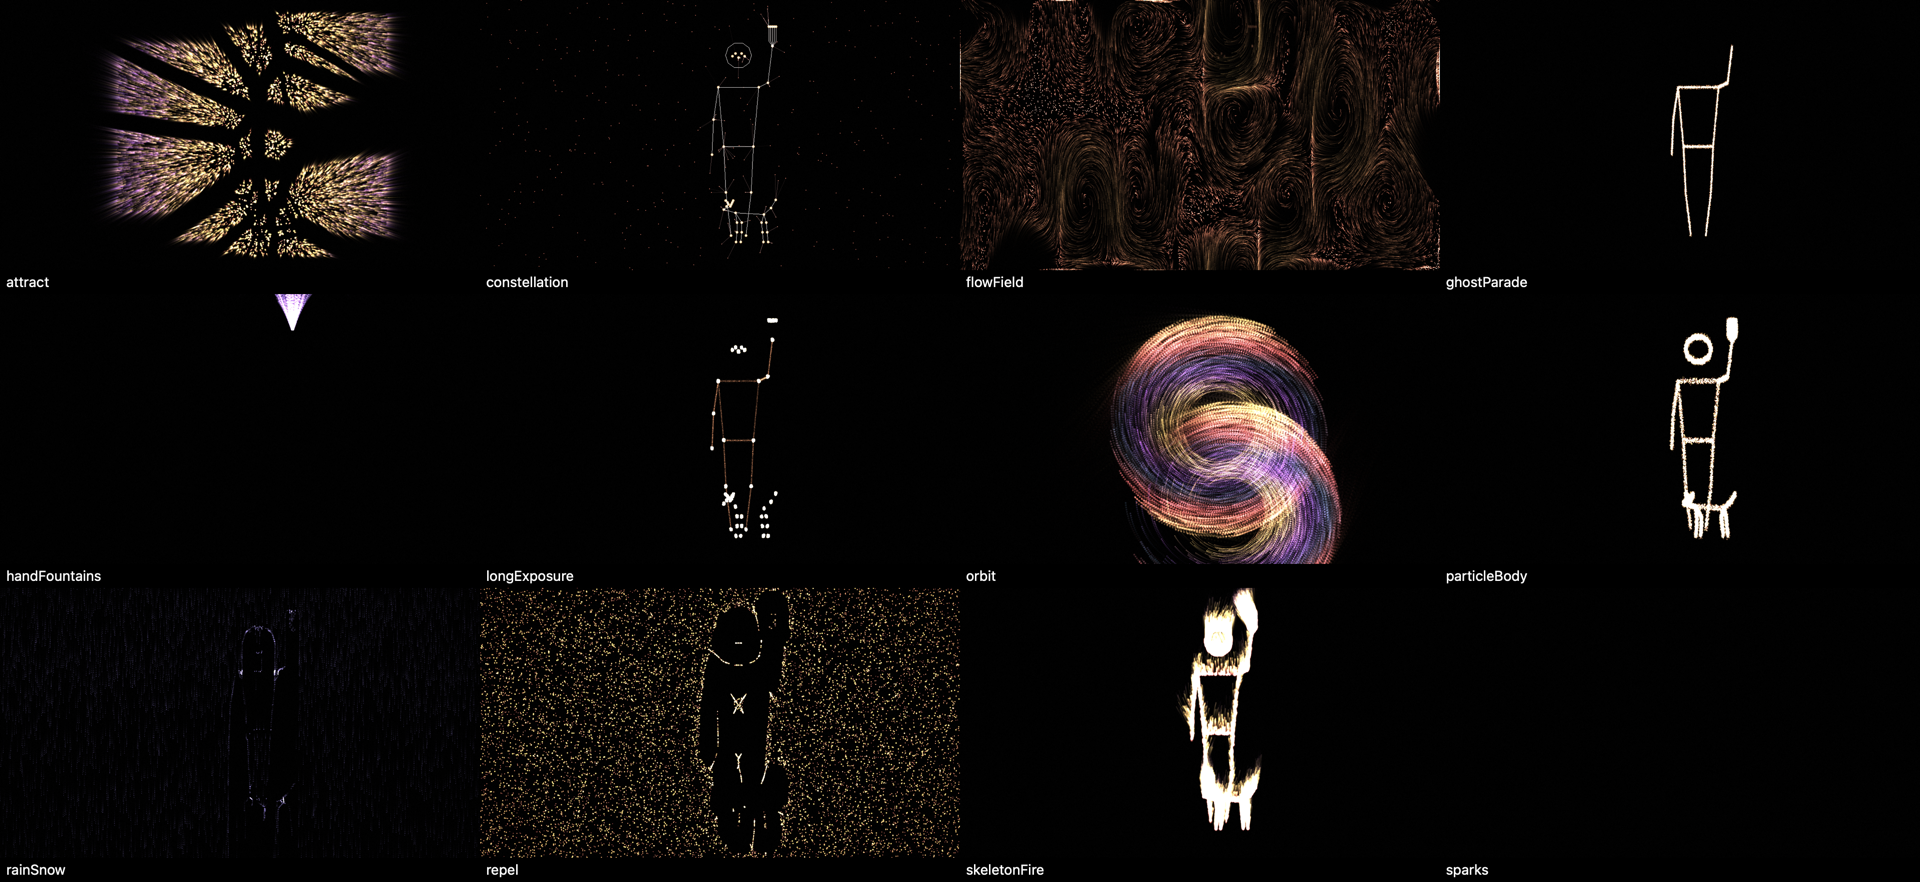
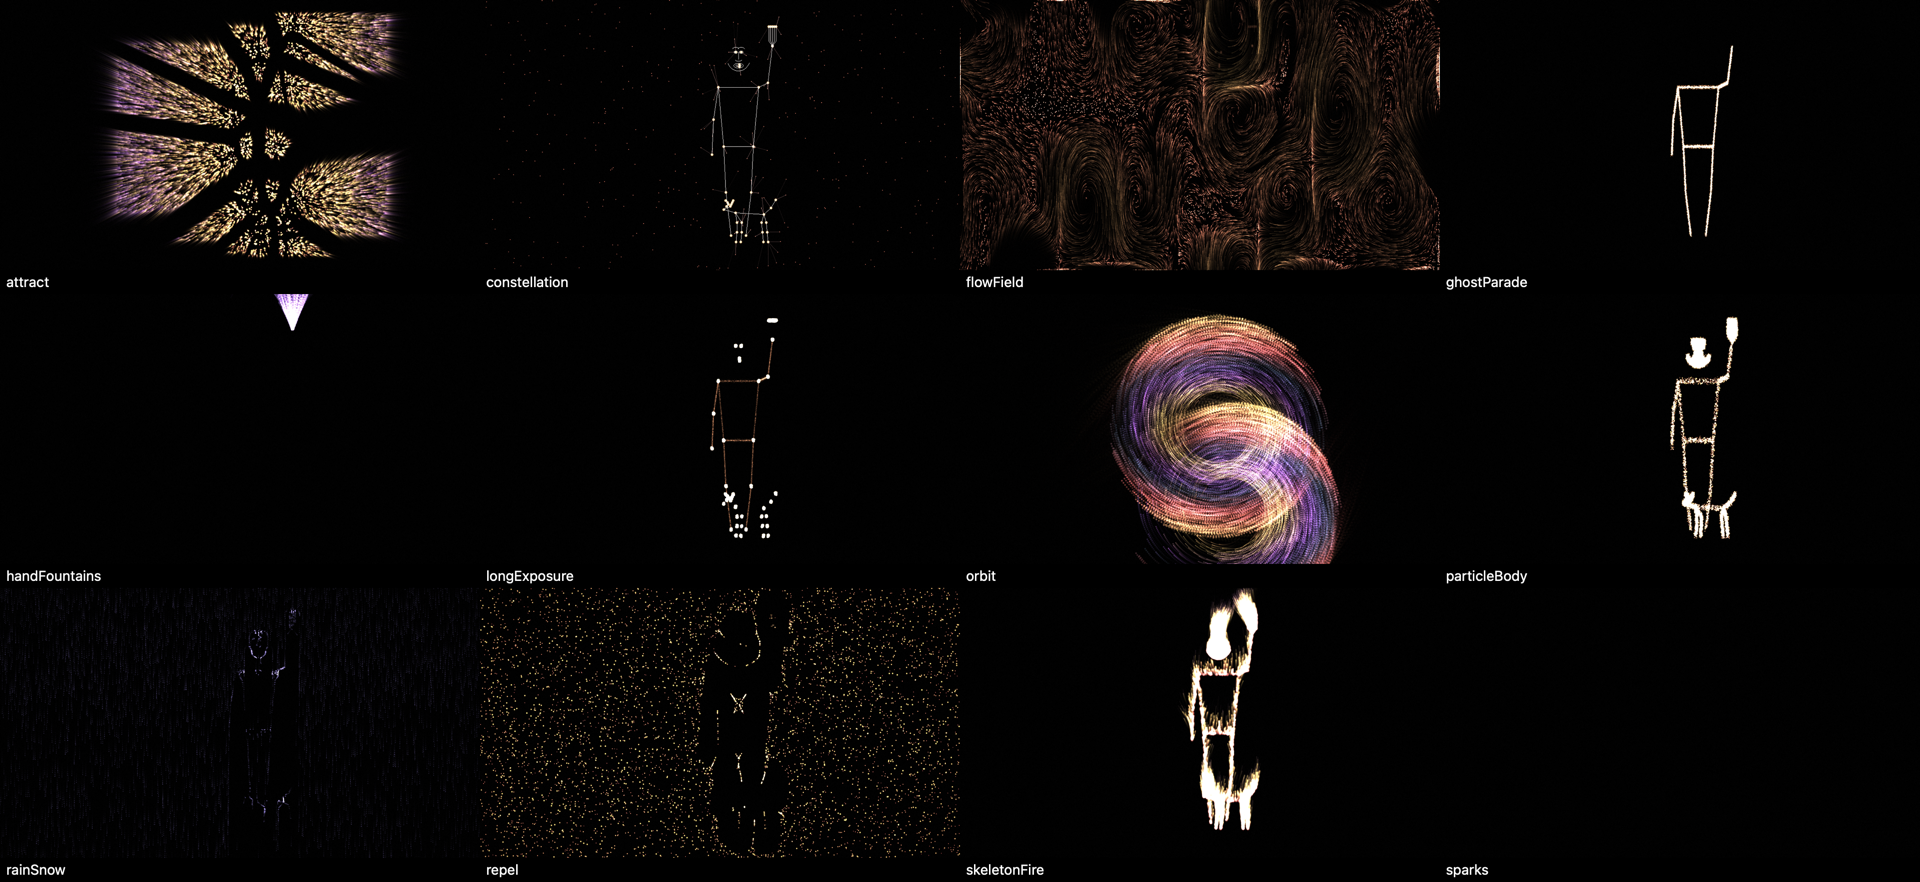
Particles and Text: heads from face landmarks or a circle, like Colours
ScenePerson.headOutlines(aspect:) and headAnchors put the head rule in
one place: the face's landmark features (eyes, brows, nose, lips, jaw)
when Face Landmarks is arriving for that person, otherwise a circle from
the ears, eyes or shoulders. Particles emit fire and dust along those
features, letters and rain bounce off them, and attraction targets the
pupils and mouth rather than the raw eye and ear joints. Hands were
already bones and anchors in both apps.

diff --git a/Particles/ParticleSystem.swift b/Particles/ParticleSystem.swift
@@ -30,27 +30,23 @@ struct SceneGeometry {
         let bodyEdges: [(Int, Int)] = [(5, 6), (5, 7), (7, 9), (6, 8), (8, 10), (5, 11), (6, 12), (11, 12), (11, 13), (13, 15), (12, 14), (14, 16)]
         for person in scene.persons where person.confidence > 0 {
             centroids.append(person.centroid)
-            for (j, joint) in person.joints.enumerated() where person.visible[j] {
+            for (j, joint) in person.joints.enumerated() where person.visible[j] && j >= 5 {
                 anchors.append(joint)
                 anchorVelocities.append(person.velocities[j])
                 if simd_length(person.velocities[j]) > speedThreshold {
                     fastJoints.append((joint, person.velocities[j]))
                 }
             }
+            for anchor in person.headAnchors {
+                anchors.append(anchor)
+                anchorVelocities.append(person.visible[0] ? person.velocities[0] : .zero)
+            }
             for (a, b) in bodyEdges where person.visible[a] && person.visible[b] {
                 bones.append((person.joints[a], person.joints[b]))
             }
-            // The head as a ring of short bones.
-            let headJoints = (0..<5).filter { person.visible[$0] }.map { person.joints[$0] }
-            if !headJoints.isEmpty {
-                let centre = headJoints.reduce(.zero, +) / Float(headJoints.count)
-                let radius: Float = person.visible[3] && person.visible[4] ? simd_distance(person.joints[3], person.joints[4]) * 0.6 : 0.03
-                let n = 10
-                for i in 0..<n {
-                    let a0 = Float(i) / Float(n) * 2 * .pi, a1 = Float(i + 1) / Float(n) * 2 * .pi
-                    let aspect = max(scene.frameAspect, 0.1)
-                    bones.append((centre + SIMD2(cosf(a0) * radius / aspect, sinf(a0) * radius), centre + SIMD2(cosf(a1) * radius / aspect, sinf(a1) * radius)))
-                }
+            // The head: landmark features when they arrive, else a circle.
+            for outline in person.headOutlines(aspect: scene.frameAspect) where outline.count >= 2 {
+                for i in 1..<outline.count { bones.append((outline[i - 1], outline[i])) }
             }
         }
         let animalEdges: [(Int, Int)] = [(0, 1), (0, 2), (1, 5), (5, 4), (4, 3), (2, 8), (8, 7), (7, 6), (0, 9), (9, 10), (10, 11), (11, 12), (9, 13), (13, 14), (14, 15), (9, 22), (22, 16), (16, 17), (17, 18), (22, 19), (19, 20), (20, 21), (22, 23), (23, 24)]

diff --git a/ReceiverCore/Scene/TrackingScene.swift b/ReceiverCore/Scene/TrackingScene.swift
@@ -110,3 +110,42 @@ struct TrackingScene: Sendable {
 
     static let empty = TrackingScene()
 }
+
+extension ScenePerson {
+    /// The head as polylines: the face's landmark features (eyes, brows,
+    /// nose, lips, jaw) when Face Landmarks is arriving for this person,
+    /// otherwise a circle sized from the ears, eyes or shoulders. The same
+    /// rule the shader modes use, for simulations that need bones to react to.
+    func headOutlines(aspect: Float) -> [[ScenePoint]] {
+        if let face, face.landmarks.count >= 76 {
+            return FaceLandmarks.regions.map { region in
+                var points = Array(face.landmarks[region.range])
+                if region.isClosed, let first = points.first { points.append(first) }
+                return points
+            }
+        }
+        let headJoints = (0..<5).filter { visible[$0] }.map { joints[$0] }
+        guard !headJoints.isEmpty else { return [] }
+        let centre = headJoints.reduce(.zero, +) / Float(headJoints.count)
+        var radius: Float = 0.03
+        if visible[3], visible[4] { radius = simd_distance(joints[3], joints[4]) * 0.6 }
+        else if visible[1], visible[2] { radius = simd_distance(joints[1], joints[2]) * 1.3 }
+        else if visible[5], visible[6] { radius = simd_distance(joints[5], joints[6]) * 0.28 }
+        let a = max(aspect, 0.1)
+        let n = 12
+        return [(0...n).map { i in
+            let angle = Float(i) / Float(n) * 2 * .pi
+            return centre + ScenePoint(cosf(angle) * radius / a, sinf(angle) * radius)
+        }]
+    }
+
+    /// Points on the head worth attracting to: pupils and the mouth when
+    /// landmarks are present, otherwise the nose.
+    var headAnchors: [ScenePoint] {
+        if let face, face.landmarks.count >= 76 {
+            return [face.landmarks[FaceLandmarks.leftPupil], face.landmarks[FaceLandmarks.rightPupil],
+                    face.landmarks[FaceLandmarks.innerLipTop], face.landmarks[FaceLandmarks.innerLipBottom]]
+        }
+        return visible[0] ? [joints[0]] : []
+    }
+}

diff --git a/Text/LetterSystem.swift b/Text/LetterSystem.swift
@@ -426,11 +426,16 @@ struct SceneGeometryLite {
     init(scene: TrackingScene) {
         let bodyEdges: [(Int, Int)] = [(5, 6), (5, 7), (7, 9), (6, 8), (8, 10), (5, 11), (6, 12), (11, 12), (11, 13), (13, 15), (12, 14), (14, 16)]
         for person in scene.persons where person.confidence > 0 {
-            for (j, joint) in person.joints.enumerated() where person.visible[j] {
+            for (j, joint) in person.joints.enumerated() where person.visible[j] && j >= 5 {
                 anchors.append(joint)
                 if simd_length(person.velocities[j]) > 0.6 { fastJoints.append((joint, person.velocities[j])) }
             }
+            anchors += person.headAnchors
             for (a, b) in bodyEdges where person.visible[a] && person.visible[b] { bones.append((person.joints[a], person.joints[b])) }
+            // The head: landmark features when they arrive, else a circle.
+            for outline in person.headOutlines(aspect: scene.frameAspect) where outline.count >= 2 {
+                for i in 1..<outline.count { bones.append((outline[i - 1], outline[i])) }
+            }
         }
         let animalEdges: [(Int, Int)] = [(0, 9), (9, 10), (10, 11), (11, 12), (9, 13), (13, 14), (14, 15), (9, 22), (22, 16), (16, 17), (17, 18), (22, 19), (19, 20), (20, 21), (22, 23), (23, 24)]
         for animal in scene.animals where animal.confidence > 0 {
